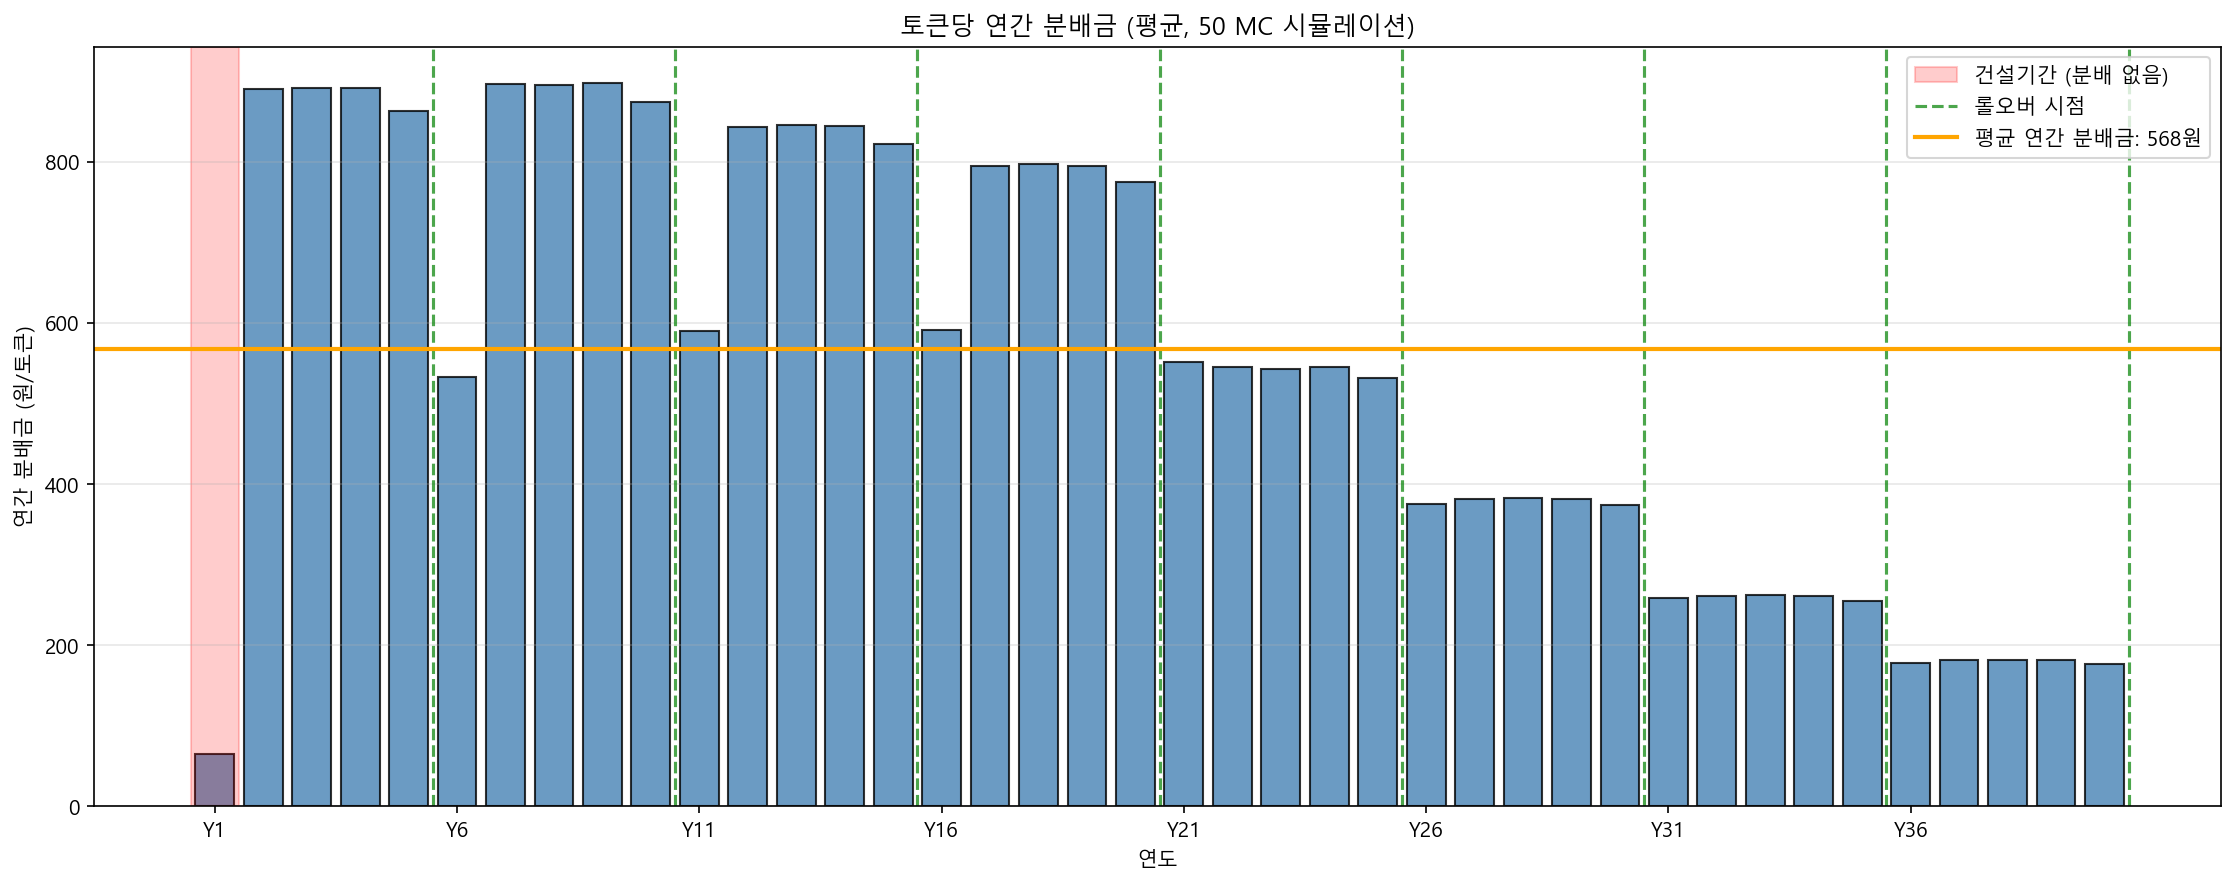
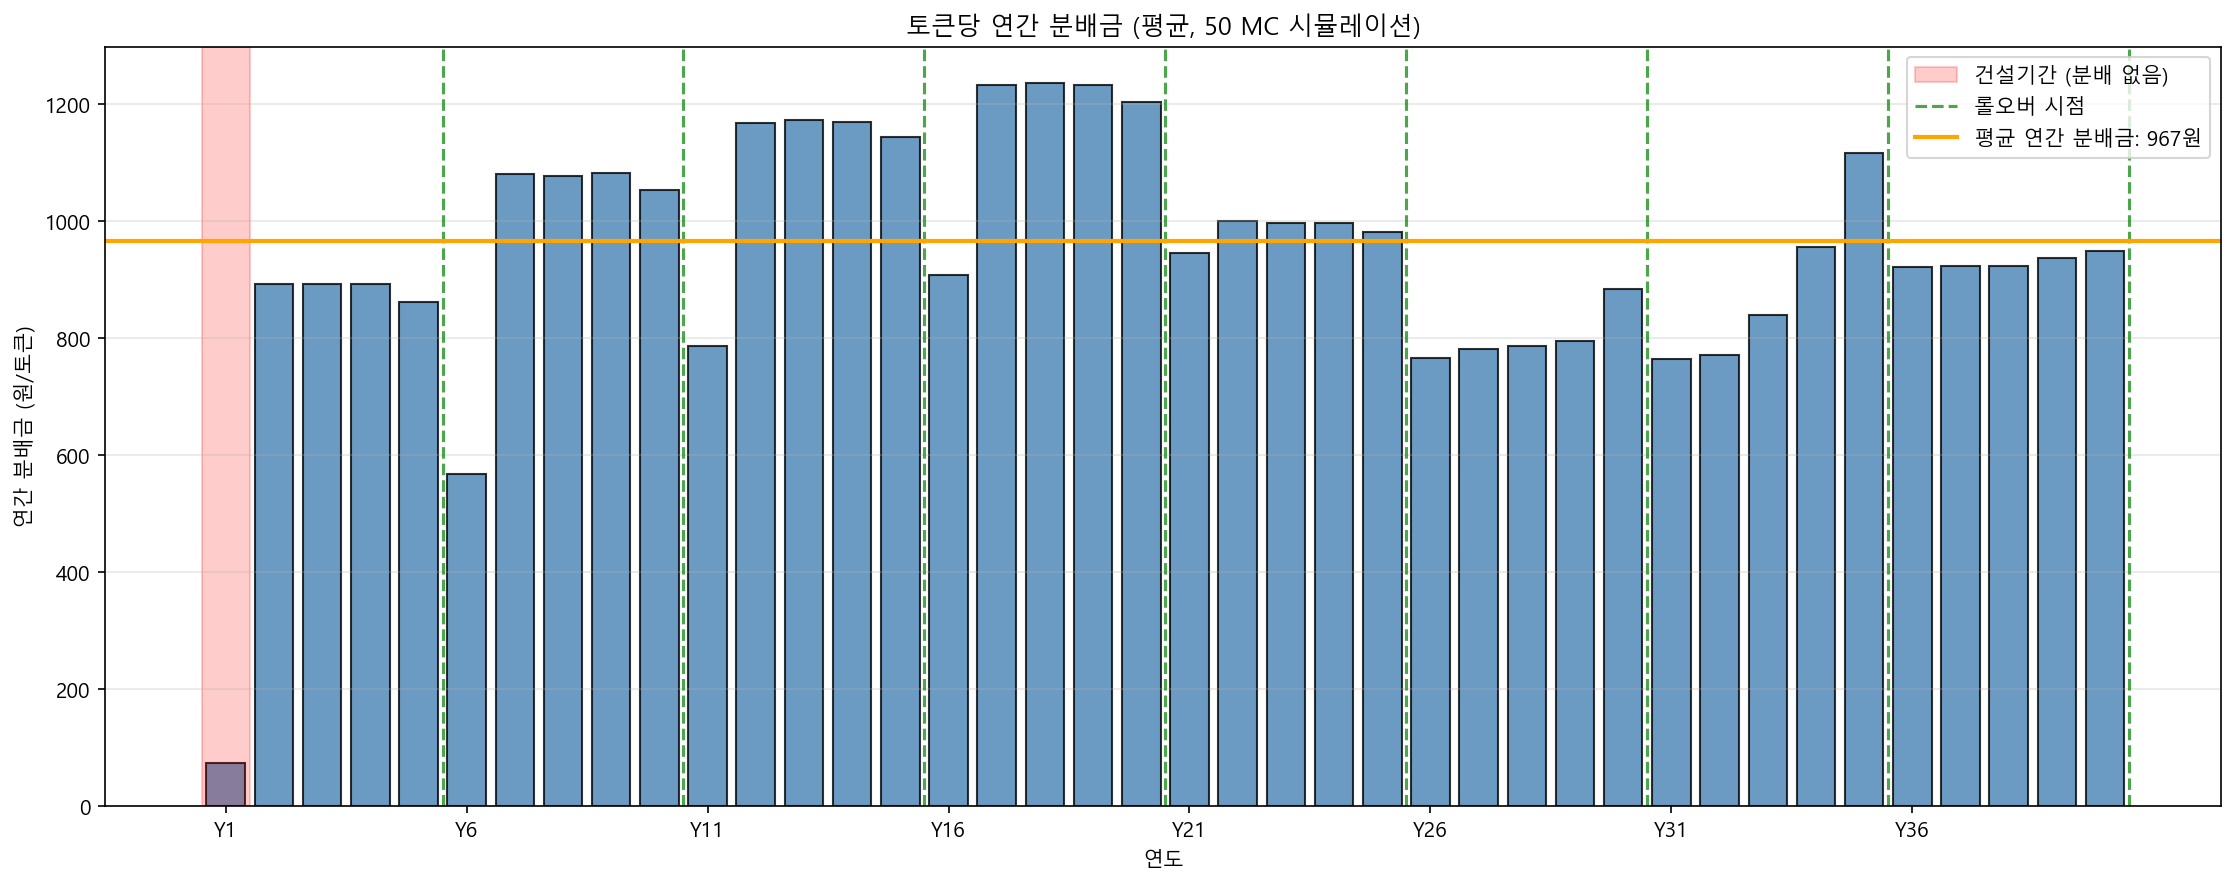
20260223

diff --git a/SolarPFModel.py b/SolarPFModel.py
@@ -21,6 +21,11 @@ T_SINGLE_PF = T_CONSTRUCTION + T_OPERATION    # 252개월
 T_SIMULATION = 480                            # 40년 (롤오버)
 T_ROLLOVER = 60                               # 롤오버 주기 (5년)
 
+# 토큰 병합 (Reverse Split)
+T_MERGE_BASELINE = 240                        # 병합 기준가 설정 시점 (20년, Month 240 롤오버 직후)
+MERGE_TRIGGER_RATIO = 0.5                     # 기준가 대비 50% 이하 시 병합 트리거
+MERGE_RATIO = 2                               # 병합 비율 (2:1 → 토큰 2개를 1개로)
+
 # 자본구조 (원 단위)
 CAPITAL_TOTAL = 2_000_000_000                 # 프로젝트당 총 자금조달 20억
 EQUITY_AMOUNT = 400_000_000                   # 자기자본 4억 (20%)
@@ -90,12 +95,16 @@ REC_CAP = 134.0               # REC 상한 (86.99 + 46.98)
 
 # 발전량 파라미터 (1MW 태양광 PF, 이용률 14.5% 가정)
 # 월별 계절성 계수: 2024년 한국전력거래소 일별 발전량 실데이터 기반
-# 계수 = 해당월 일평균 / 연 일평균 (1.0 = 연평균 수준)
-MONTHLY_SEASONAL = [
+# 원시 계수 = 해당월 일평균 / 연 일평균 (1.0 = 연평균 수준)
+_MONTHLY_SEASONAL_RAW = [
     0.698, 0.657, 1.092, 1.138, 1.417, 1.284,   # 1~6월
     0.954, 1.256, 1.083, 0.850, 0.809, 0.749,   # 7~12월
 ]
-# 월별 계절계수는 MONTHLY_SEASONAL을 직접 사용 (인덱스 = t % 12)
+# 경사각 보정 축소 (dampening): S'_m = 1 + α × (S_m - 1)
+# α = 0.55 → CV 0.24 → 0.13 (PVGIS 30도 고정경사 1MW 수준)
+# 전국 합계(비최적 경사각 혼재)를 최적 경사각 단일 프로젝트 수준으로 조정
+SEASONAL_DAMPING = 0.1
+MONTHLY_SEASONAL = [1 + SEASONAL_DAMPING * (s - 1) for s in _MONTHLY_SEASONAL_RAW]
 
 ENERGY_PARAMS = dict(
     base_generation=105.9,    # MWh/월 (1MW × 24h × 30.4d × 14.5%)
@@ -172,6 +181,10 @@ class SolarPFModel:
         self.token_count = 0.0                # 총 발행 토큰 수
         self.token_price = 0.0                # 토큰 가격
 
+        # 토큰 병합 (Reverse Split)
+        self.merge_baseline_price = None          # 병합 기준가 (T_MERGE_BASELINE 롤오버 직후 설정)
+        self.merge_history = []                   # 병합 이력 기록
+
         # 에피소드 관리 변수
         self.t = 0
         self.obj = 0.0
@@ -203,6 +216,8 @@ class SolarPFModel:
         self.contracted_price = None
         self.pf_id_counter = 0
         self._init_pf_list()
+        self.merge_baseline_price = None
+        self.merge_history = []
         self.state = self.build_state(self.init_state)
         self.history = []
 
@@ -560,6 +575,39 @@ class SolarPFModel:
         return total_nav
 
     # ------------------------------------------------------------------ #
+    #  토큰 병합 (Reverse Split)                                          #
+    # ------------------------------------------------------------------ #
+
+    def _check_and_merge_tokens(self, total_nav):
+        """토큰 병합 조건 확인 및 실행.
+
+        merge_baseline_price가 설정된 후, 현재 토큰 가격이
+        기준가의 MERGE_TRIGGER_RATIO 이하로 하락하면 MERGE_RATIO:1 병합 실행.
+        NAV는 변동 없이 토큰 수만 감소 → 개당 가격 복원.
+        """
+        if self.merge_baseline_price is None:
+            return
+
+        if self.token_count <= 0:
+            return
+
+        current_price = total_nav / self.token_count
+        trigger_price = self.merge_baseline_price * MERGE_TRIGGER_RATIO
+
+        if current_price < trigger_price:
+            old_count = self.token_count
+            self.token_count /= MERGE_RATIO
+            self.token_price = total_nav / self.token_count
+
+            self.merge_history.append({
+                't': self.t,
+                'old_count': old_count,
+                'new_count': self.token_count,
+                'price_before': current_price,
+                'price_after': self.token_price,
+            })
+
+    # ------------------------------------------------------------------ #
     #  NAV 계산기 (Task #6)                                               #
     # ------------------------------------------------------------------ #
 
@@ -624,7 +672,10 @@ class SolarPFModel:
         else:
             avg_p_complete = 1.0
 
-        # 5. 펀드 전체 상태 결정
+        # 5. 토큰 병합 체크 (기준가 설정 후, 가격 하락 시 병합)
+        self._check_and_merge_tokens(total_nav)
+
+        # 6. 펀드 전체 상태 결정
         if active_count == 0:
             fund_status = 'FAILED'
         elif all(pf.status == 'POST' for pf in self.pf_list if pf.is_active()):
@@ -753,7 +804,13 @@ class SolarPFModel:
             # 신규 NAV 반환 (기존 NAV + 신규 PF 가치)
             # 신규 PF는 PRE 상태이므로 P_COMPLETE_INIT을 곱해야 함
             new_pf_nav = new_pf_value * P_COMPLETE_INIT
-            return current_nav + new_pf_nav
+            new_total_nav = current_nav + new_pf_nav
+
+            # 병합 기준가 설정 (T_MERGE_BASELINE 롤오버 직후)
+            if t == T_MERGE_BASELINE and self.merge_baseline_price is None:
+                self.merge_baseline_price = new_total_nav / self.token_count
+
+            return new_total_nav
 
         return None
 
@@ -795,15 +852,15 @@ class SolarPFModel:
             return x_min
 
         # 지수 분포 파라미터 (0에서 1로 정규화된 범위에서)
-        # b = ln(0.8/0.01) ≈ 4.38 (x_max에서 80%, x_min에서 ~1%)
-        b = 4.0
+        # x_min 편향: 토큰 적게 발행 → 기존투자자 보호 (발행가 상승)
+        b = 10.0
 
-        # 역변환 샘플링
+        # 역변환 샘플링 (x_min 편향: p(t) ∝ exp(-bt))
         u = self.prng.random()
-        # CDF: F(t) = (exp(bt) - 1) / (exp(b) - 1), t ∈ [0, 1]
-        # 역함수: t = ln(1 + u*(exp(b) - 1)) / b
-        exp_b = np.exp(b)
-        t = np.log(1 + u * (exp_b - 1)) / b
+        # CDF: F(t) = (1 - exp(-bt)) / (1 - exp(-b)), t ∈ [0, 1]
+        # 역함수: t = -ln(1 - u*(1 - exp(-b))) / b
+        exp_neg_b = np.exp(-b)
+        t = -np.log(1 - u * (1 - exp_neg_b)) / b
 
         # t를 [x_min, x_max] 범위로 변환
         x = x_min + t * (x_max - x_min)

diff --git a/SolarPFDriver.py b/SolarPFDriver.py
@@ -17,6 +17,7 @@ plt.rcParams['axes.unicode_minus'] = False
 from SolarPFModel import (
     SolarPFModel,
     T_CONSTRUCTION, T_SINGLE_PF, T_SIMULATION, T_ROLLOVER,
+    T_MERGE_BASELINE,
     P_COMPLETE_INIT, INITIAL_PF_COUNT, TOKEN_AMOUNT, TOKENS_PER_PF,
 )
 from SolarPFPolicy import SolarPFPolicy
@@ -62,6 +63,7 @@ def main():
     all_status = []
     all_token_count = []
     all_distribution = []  # 월별 분배금 (펀드 전체)
+    all_merge_history = []  # 병합 이력 (trial별)
 
     print(f"Running {trial_size} Monte Carlo simulations (T={T} months)...")
 
@@ -74,6 +76,7 @@ def main():
         all_status.append([h['state'].status_t for h in history])
         all_token_count.append([h['state'].token_count_t for h in history])
         all_distribution.append([h['state'].monthly_distribution_t for h in history])
+        all_merge_history.append(list(model.merge_history))
 
         if (trial + 1) % 10 == 0:
             print(f"  Trial {trial + 1}/{trial_size} done")
@@ -125,14 +128,22 @@ def main():
     # --- 토큰당 가격 (NAV / token_count) ---
     ax = axes[1]
     for i in range(trial_size):
-        ax.plot(days, all_price_per_token[i] / UNIT, color=colors[i], alpha=0.35, linewidth=0.6)
+        ax.plot(days, all_price_per_token[i], color=colors[i], alpha=0.35, linewidth=0.6)
     mean_price = np.mean(all_price_per_token, axis=0)
-    ax.plot(days, mean_price / UNIT, color='black', linewidth=1.8, label='Mean Price/Token')
+    ax.plot(days, mean_price, color='black', linewidth=1.8, label='Mean Price/Token')
     ax.axvline(x=T_CONSTRUCTION, color='red', linestyle='--', alpha=0.7, linewidth=1.2)
     for i, rm in enumerate(rollover_months):
         label = 'Rollover' if i == 0 else None
         ax.axvline(x=rm, color='green', linestyle=':', alpha=0.5, linewidth=1.0, label=label)
-    ax.set_ylabel(f'Price per Token ({UNIT_LABEL})')
+    # 병합 시점 표시 (모든 trial의 병합 시점 수집)
+    merge_months_set = set()
+    for mh in all_merge_history:
+        for event in mh:
+            merge_months_set.add(event['t'])
+    for i, mt in enumerate(sorted(merge_months_set)):
+        label = 'Reverse Split' if i == 0 else None
+        ax.axvline(x=mt, color='purple', linestyle='-', alpha=0.6, linewidth=1.2, label=label)
+    ax.set_ylabel('Price per Token (원)')
     ax.set_title('Token Price = Total NAV / Token Count')
     ax.legend(loc='upper right')
 
@@ -287,6 +298,13 @@ def main():
     print(f"Mean total dist/token (40yr) : {np.mean(total_dist_per_token):>12,.0f} KRW")
     print(f"Mean annual dist/token       : {mean_annual_dist:>12,.0f} KRW")
     print(f"Implied yield (dist/price)   : {(mean_annual_dist / 10000) * 100:>10.2f} %")
+    print("-" * 40)
+    merge_counts = [len(mh) for mh in all_merge_history]
+    print(f"Mean merge count (per trial) : {np.mean(merge_counts):>10.1f}")
+    print(f"Max  merge count             : {np.max(merge_counts):>10d}")
+    if any(merge_counts):
+        all_merge_times = [e['t'] for mh in all_merge_history for e in mh]
+        print(f"First merge month (min)      : {min(all_merge_times):>10d}")
     print("========================================")
 
 

diff --git a/SolarPFPolicy.py b/SolarPFPolicy.py
@@ -45,7 +45,7 @@ class SolarPFPolicy:
             decision = policy_copy.get_decision()
             model_copy.step(decision)
 
-        return (model_copy.obj, model_copy.history.copy())
+        return (model_copy.obj, model_copy.history.copy(), model_copy.merge_history.copy())
 
     # ------------------------------------------------------------------ #
     #  헬퍼                                                               #
